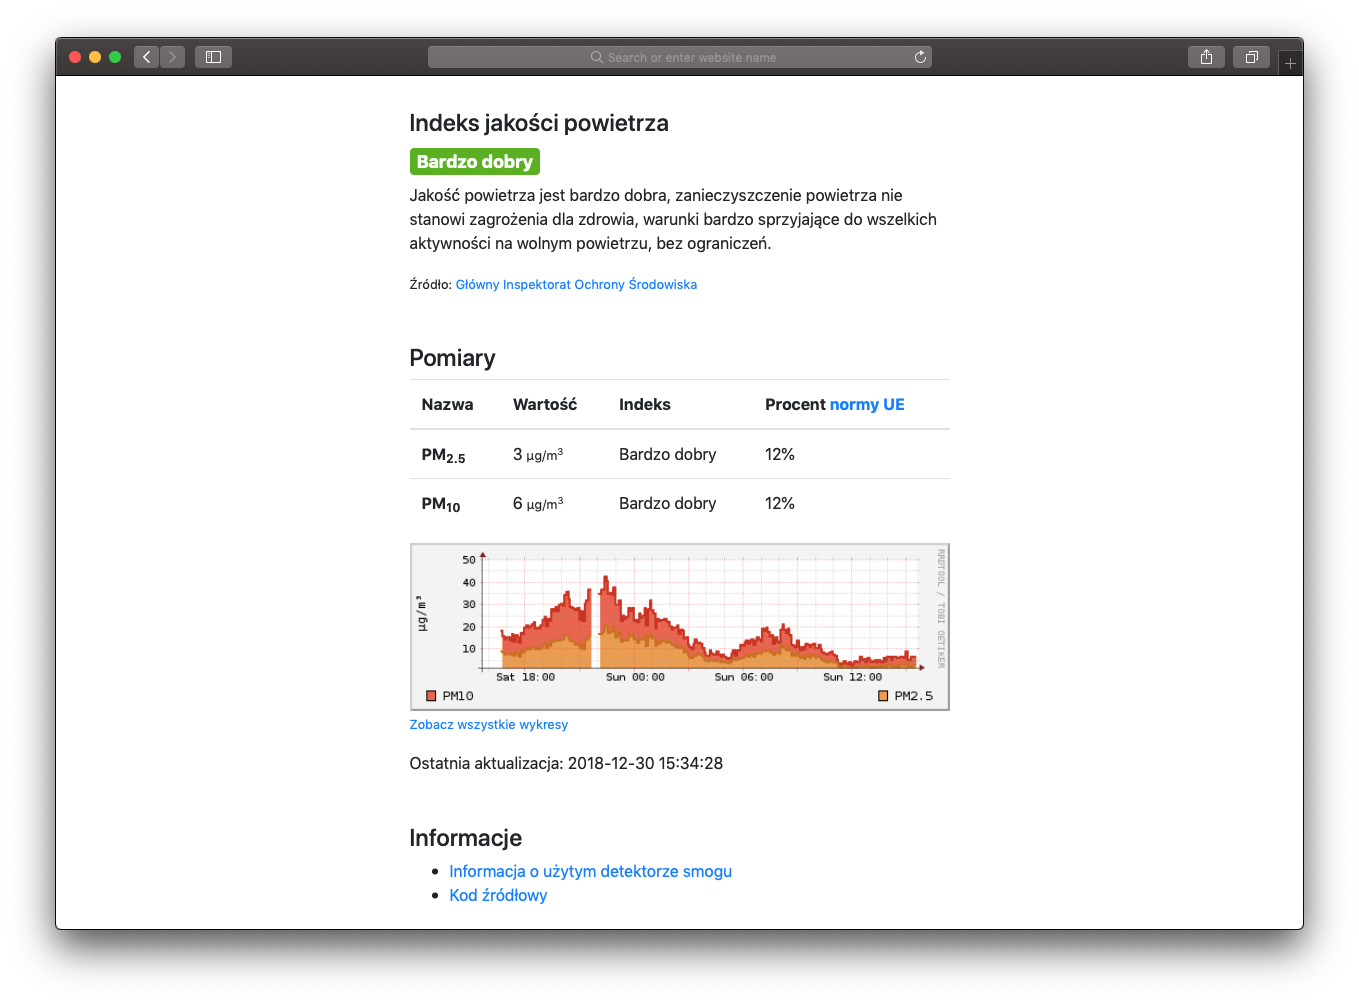
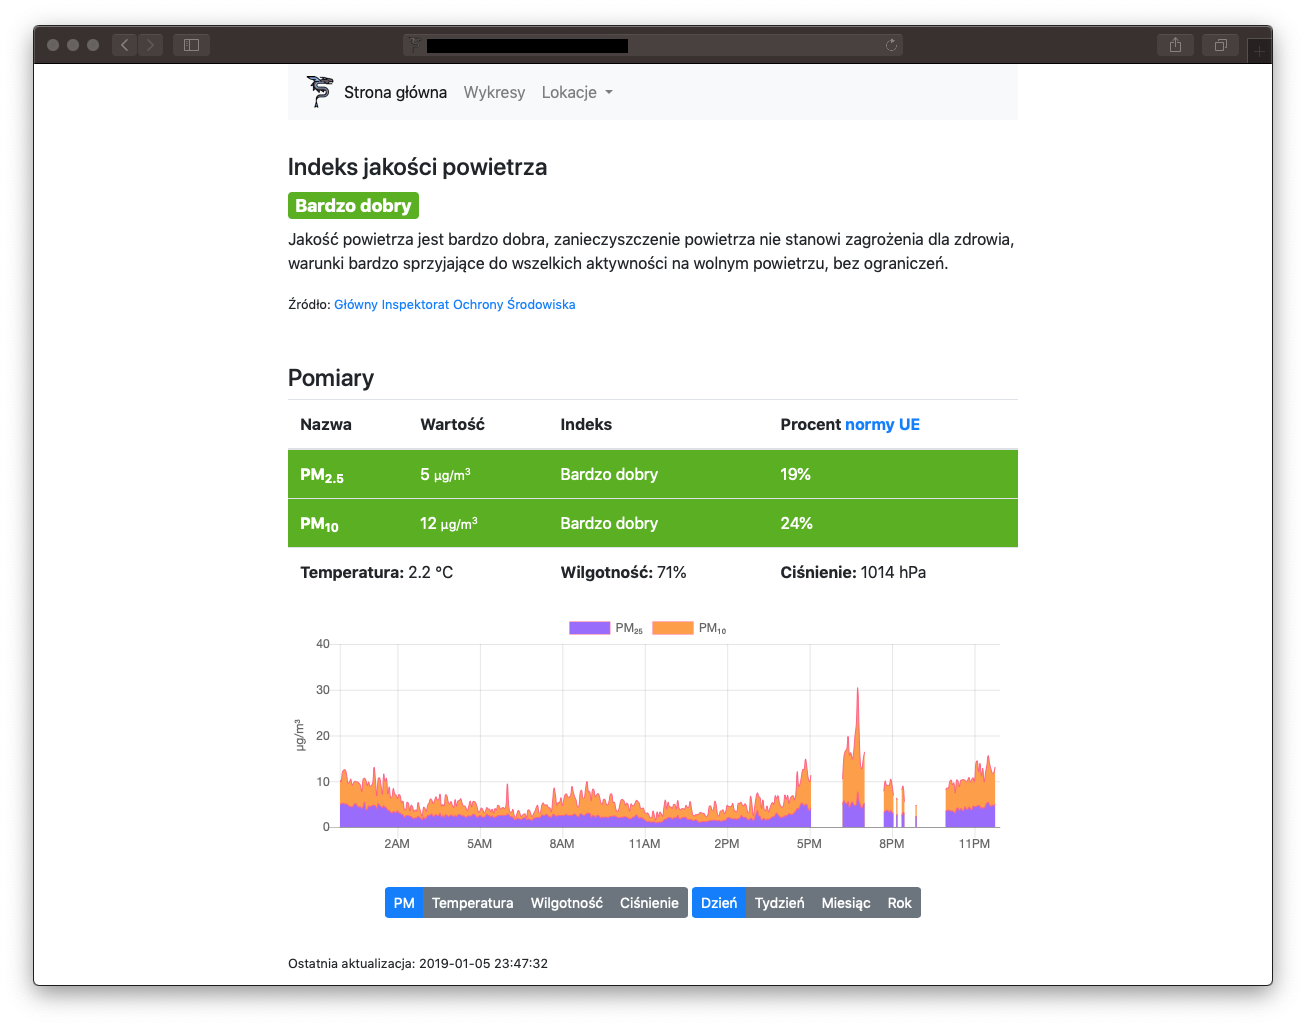
Use ChartJS to draw the graphs.
- updated readme
- remove the graphs link from the navbar
- allow to cache graph.js

Changed region(s): [[0.0, 0.0, 0.9801, 0.989], [0.2144, 0.34, 0.7963, 0.8963], [0.2144, 0.7109, 0.245, 0.7418]]

diff --git a/htdocs/partials/head.php b/htdocs/partials/head.php
@@ -43,7 +43,7 @@
             </button>
             <div class="collapse navbar-collapse" id="navbarNav">
               <ul class="navbar-nav">
-                <?php foreach(array('sensors' => 'Strona główna', 'graphs' => 'Wykresy') as $action => $name): ?>
+                <?php foreach(array('sensors' => 'Strona główna') as $action => $name): ?>
                 <li class="nav-item">
                   <a class="nav-link <?php echo ($action == $current_action) ? 'active' : ''; ?>" href="<?php echo l($device, $action); ?>"><?php echo $name; ?></a>
                 </li>

diff --git a/htdocs/partials/tail.php b/htdocs/partials/tail.php
@@ -5,6 +5,6 @@
   <script src="/public/js/moment.min.js"></script>
   <script src="/public/js/moment-pl.js"></script>
   <script src="/public/js/Chart.min.js"></script>
-  <script src="/public/js/graphs.js?<?php echo rand(); ?>"></script>
+  <script src="/public/js/graphs.js"></script>
   </body>
 </html>

diff --git a/README.md b/README.md
@@ -7,7 +7,8 @@ This PHP-based page allows to display the current PM10 and PM2.5 measurements ma
 ## Features
 
 * Nice and clean interface
-* Graphs based on RRD
+* Records stored in the RRD
+* Graphs rendered with ChartJS
 * No external database required
 * Support for multiple devices
 
